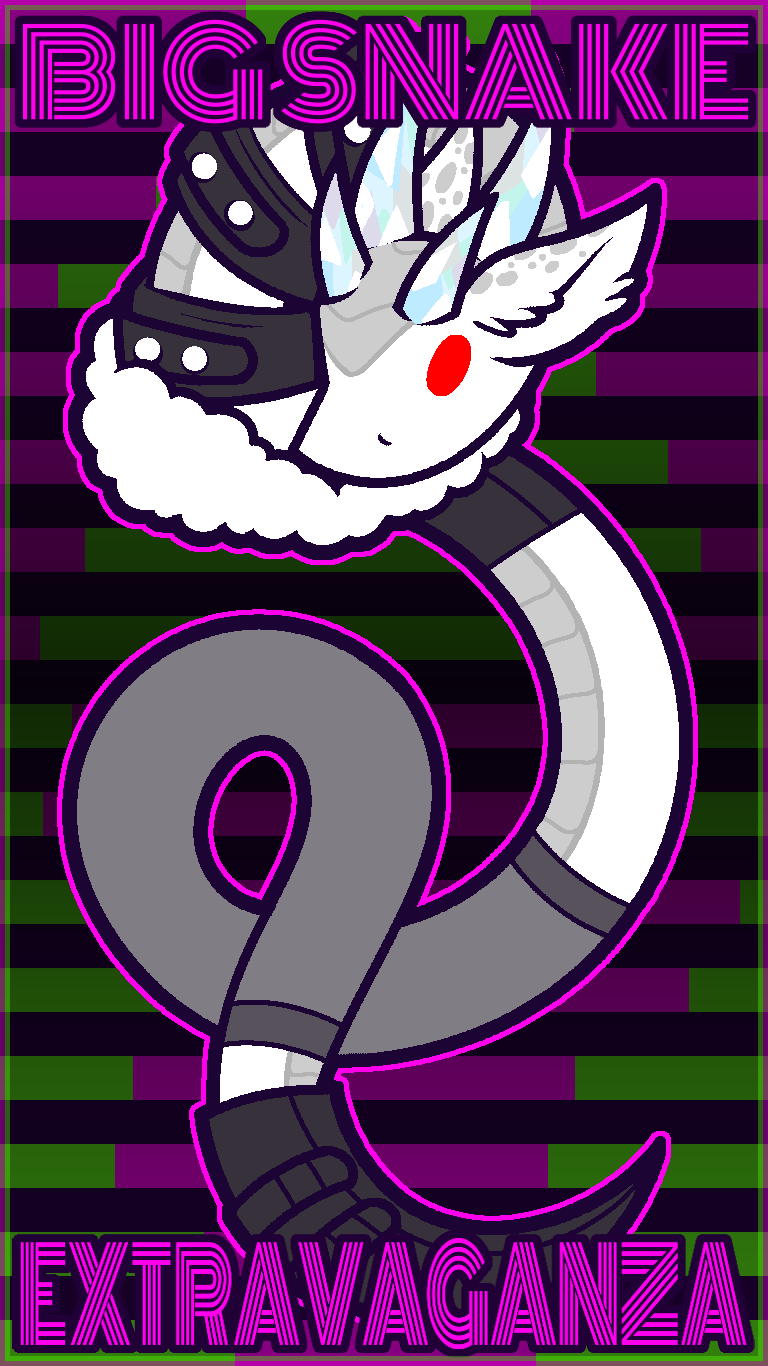
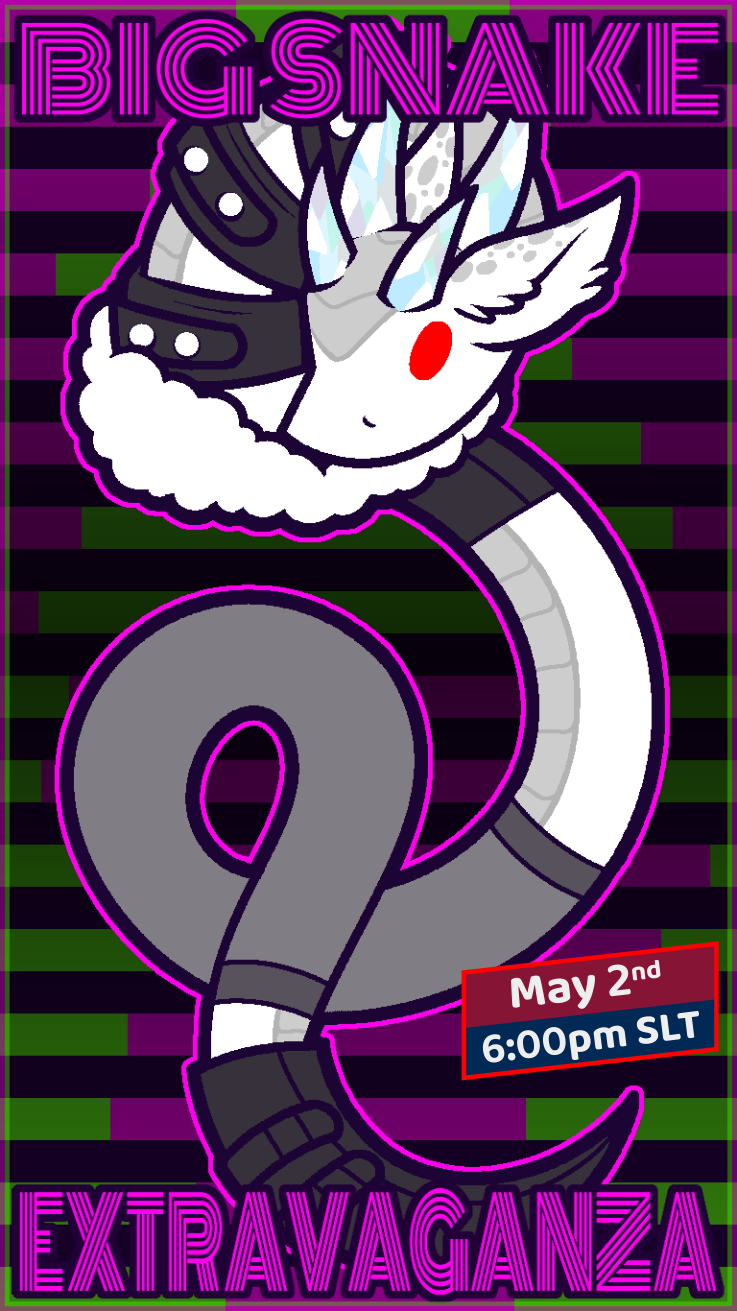
feat: update with date/time

Changed region(s): [[0.6242, 0.7018, 0.9986, 0.8238]]

diff --git a/index.html b/index.html
@@ -123,30 +123,30 @@
       <h1>You're invited to:</h1>
       <h2>Big &nbsp;&nbsp;Snake &nbsp;&nbsp;Extravaganza!</h1>
       <div class="poster">
-        <a class="poster-action" href="https://docs.google.com/forms/d/e/1FAIpQLSc_PyJJ4q5WlcUvsv-D5Xy7whsRK6Wxzhb5WPl2JPmvISBuDg/viewform?usp=sf_link">
-          <img src="http://ikasnake.com/poster.png" alt="Big snake extravaganza, click to vote on time" />
+        <a class="poster-action" href="https://docs.google.com/forms/d/e/1FAIpQLSda8s0wKPWBPqc-4Y9B2EhKIMlwEBlcVhPa94qwzV2Qx-eCow/viewform?usp=sf_link">
+          <img src="http://ikasnake.com/poster.png" alt="Big snake extravaganza, click to RSVP" />
         </a>
       </div>
     </main>
     <footer class="footer">
       <div class="footer-actions">
-        <a class="footer-action" href="https://docs.google.com/forms/d/e/1FAIpQLSc_PyJJ4q5WlcUvsv-D5Xy7whsRK6Wxzhb5WPl2JPmvISBuDg/viewform?usp=sf_link">Vote For a Time</a>
+        <a class="footer-action" href="https://docs.google.com/forms/d/e/1FAIpQLSda8s0wKPWBPqc-4Y9B2EhKIMlwEBlcVhPa94qwzV2Qx-eCow/viewform?usp=sf_link">RSVP</a>
       </div>
       <section class="faq">
         <h3>FAQ</h2>
         <ul>
           <li>
             <label>
-              <h4>Why do I have to vote?</h4>
+              <h4>Why do I have to RSVP?</h4>
               <input type="checkbox" />
-              <p>You don't have to. Just want to try and plan around most people's schedules.</p>
+              <p>You don't have to! It'd just be cool to know who might come.</p>
             </label>
           </li>
           <li>
             <label>
-              <h4>When will the results be available?</h4>
+              <h4>Why was this date and time choosen?</h4>
               <input type="checkbox" />
-              <p>At least a week before the final date. The website will be updated if you wanna save it somewhere.</p>
+              <p>There was a small vote to try and be most acommadating as everyone's schedules are a little different.</p>
             </label>
           </li>
           <li>
